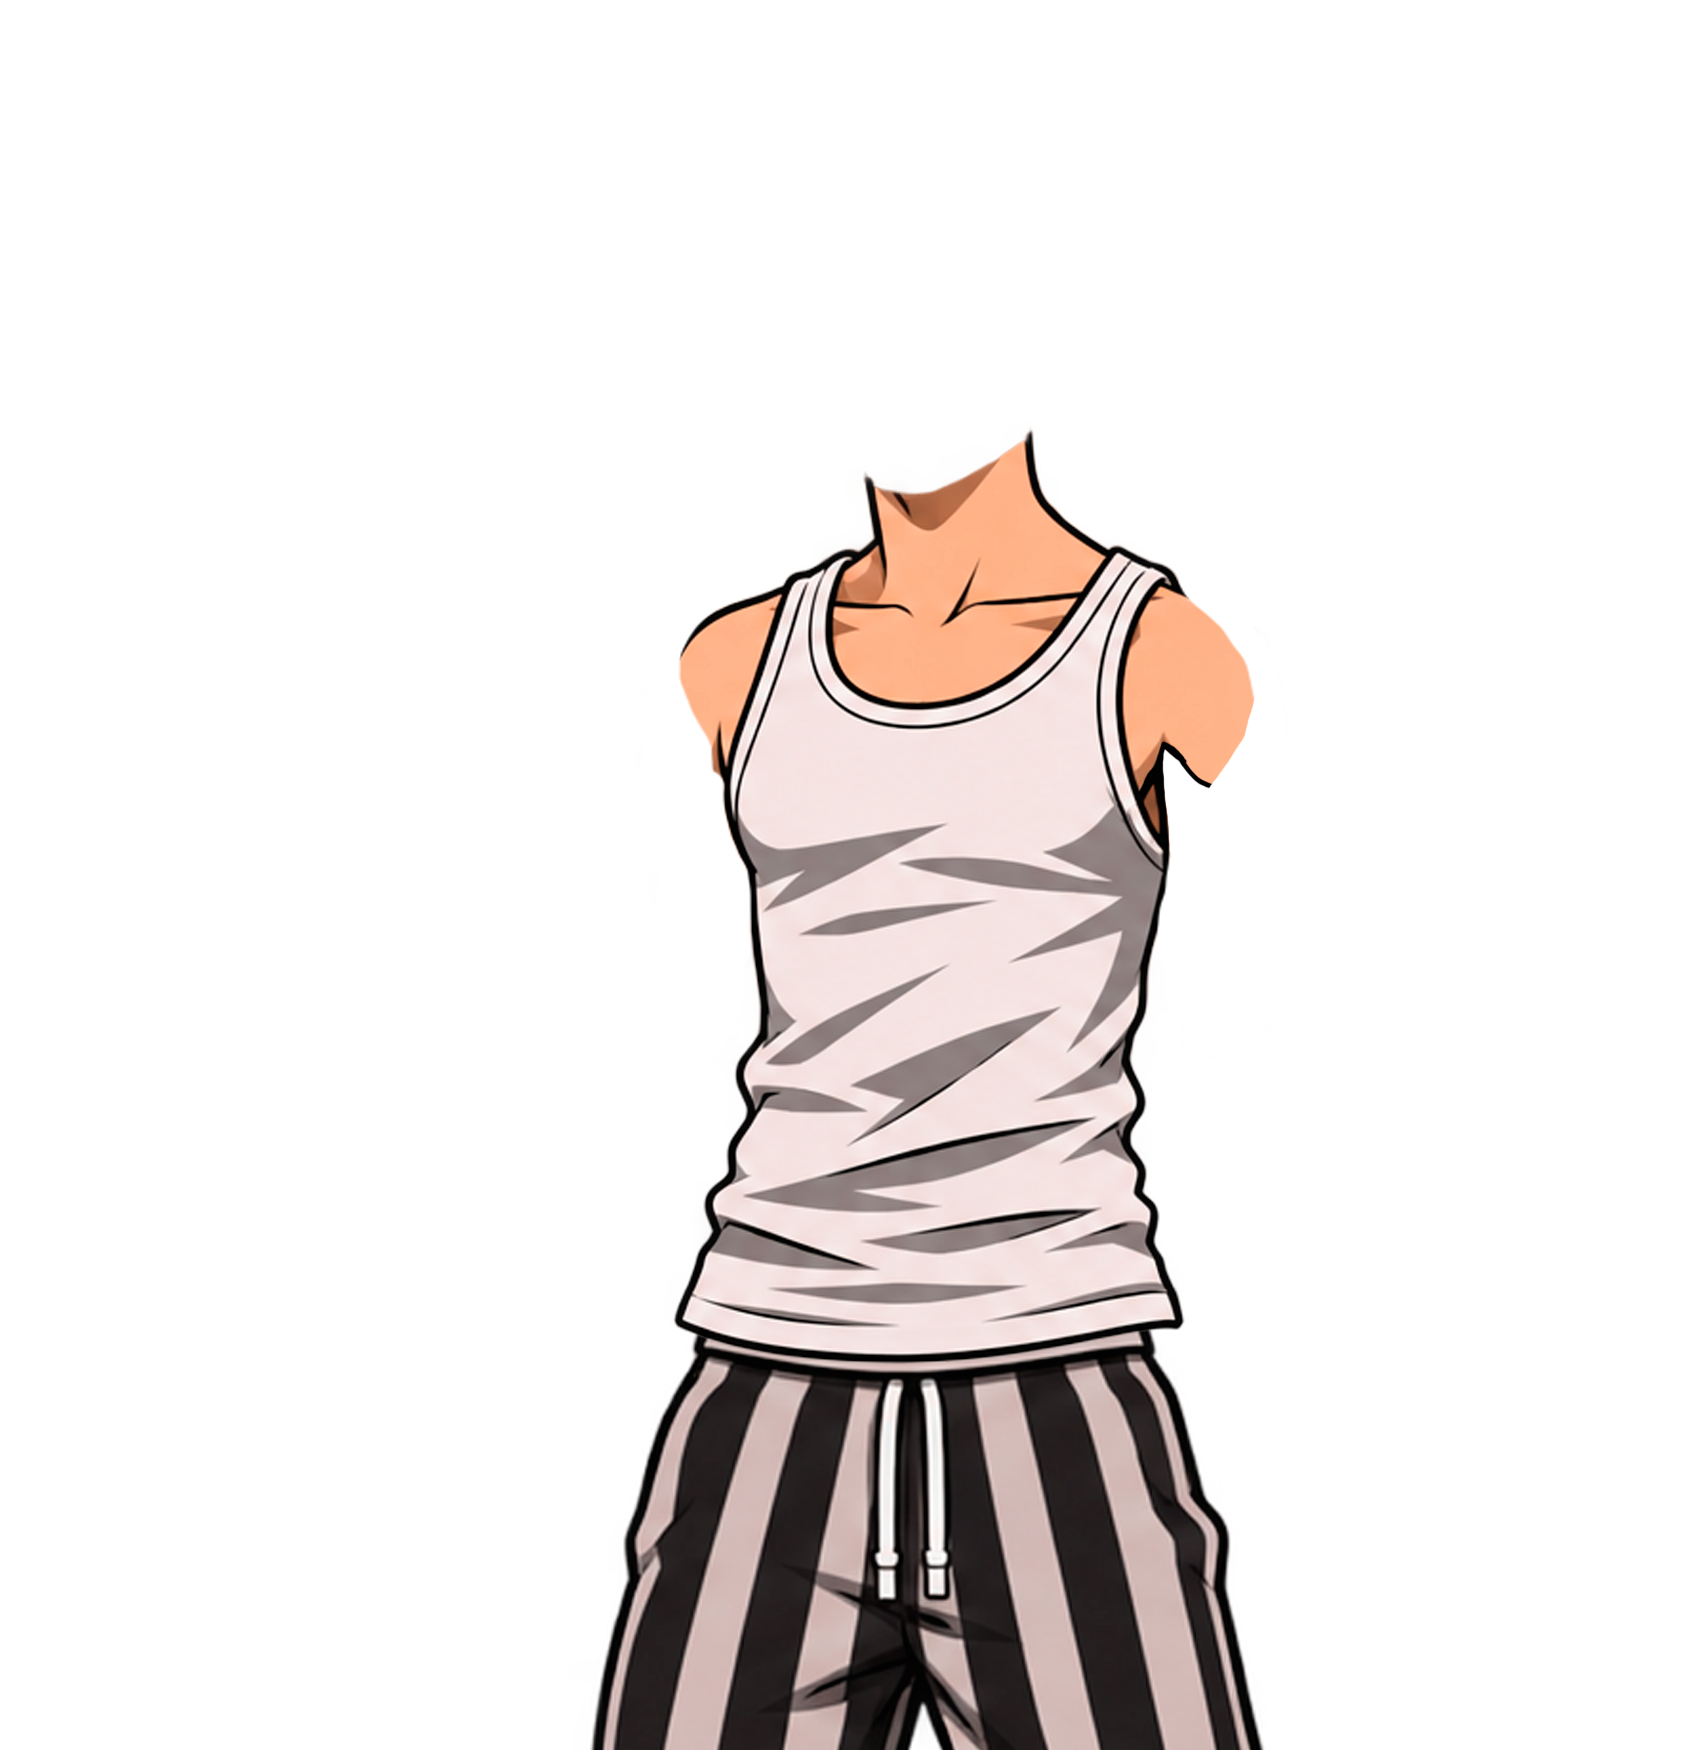
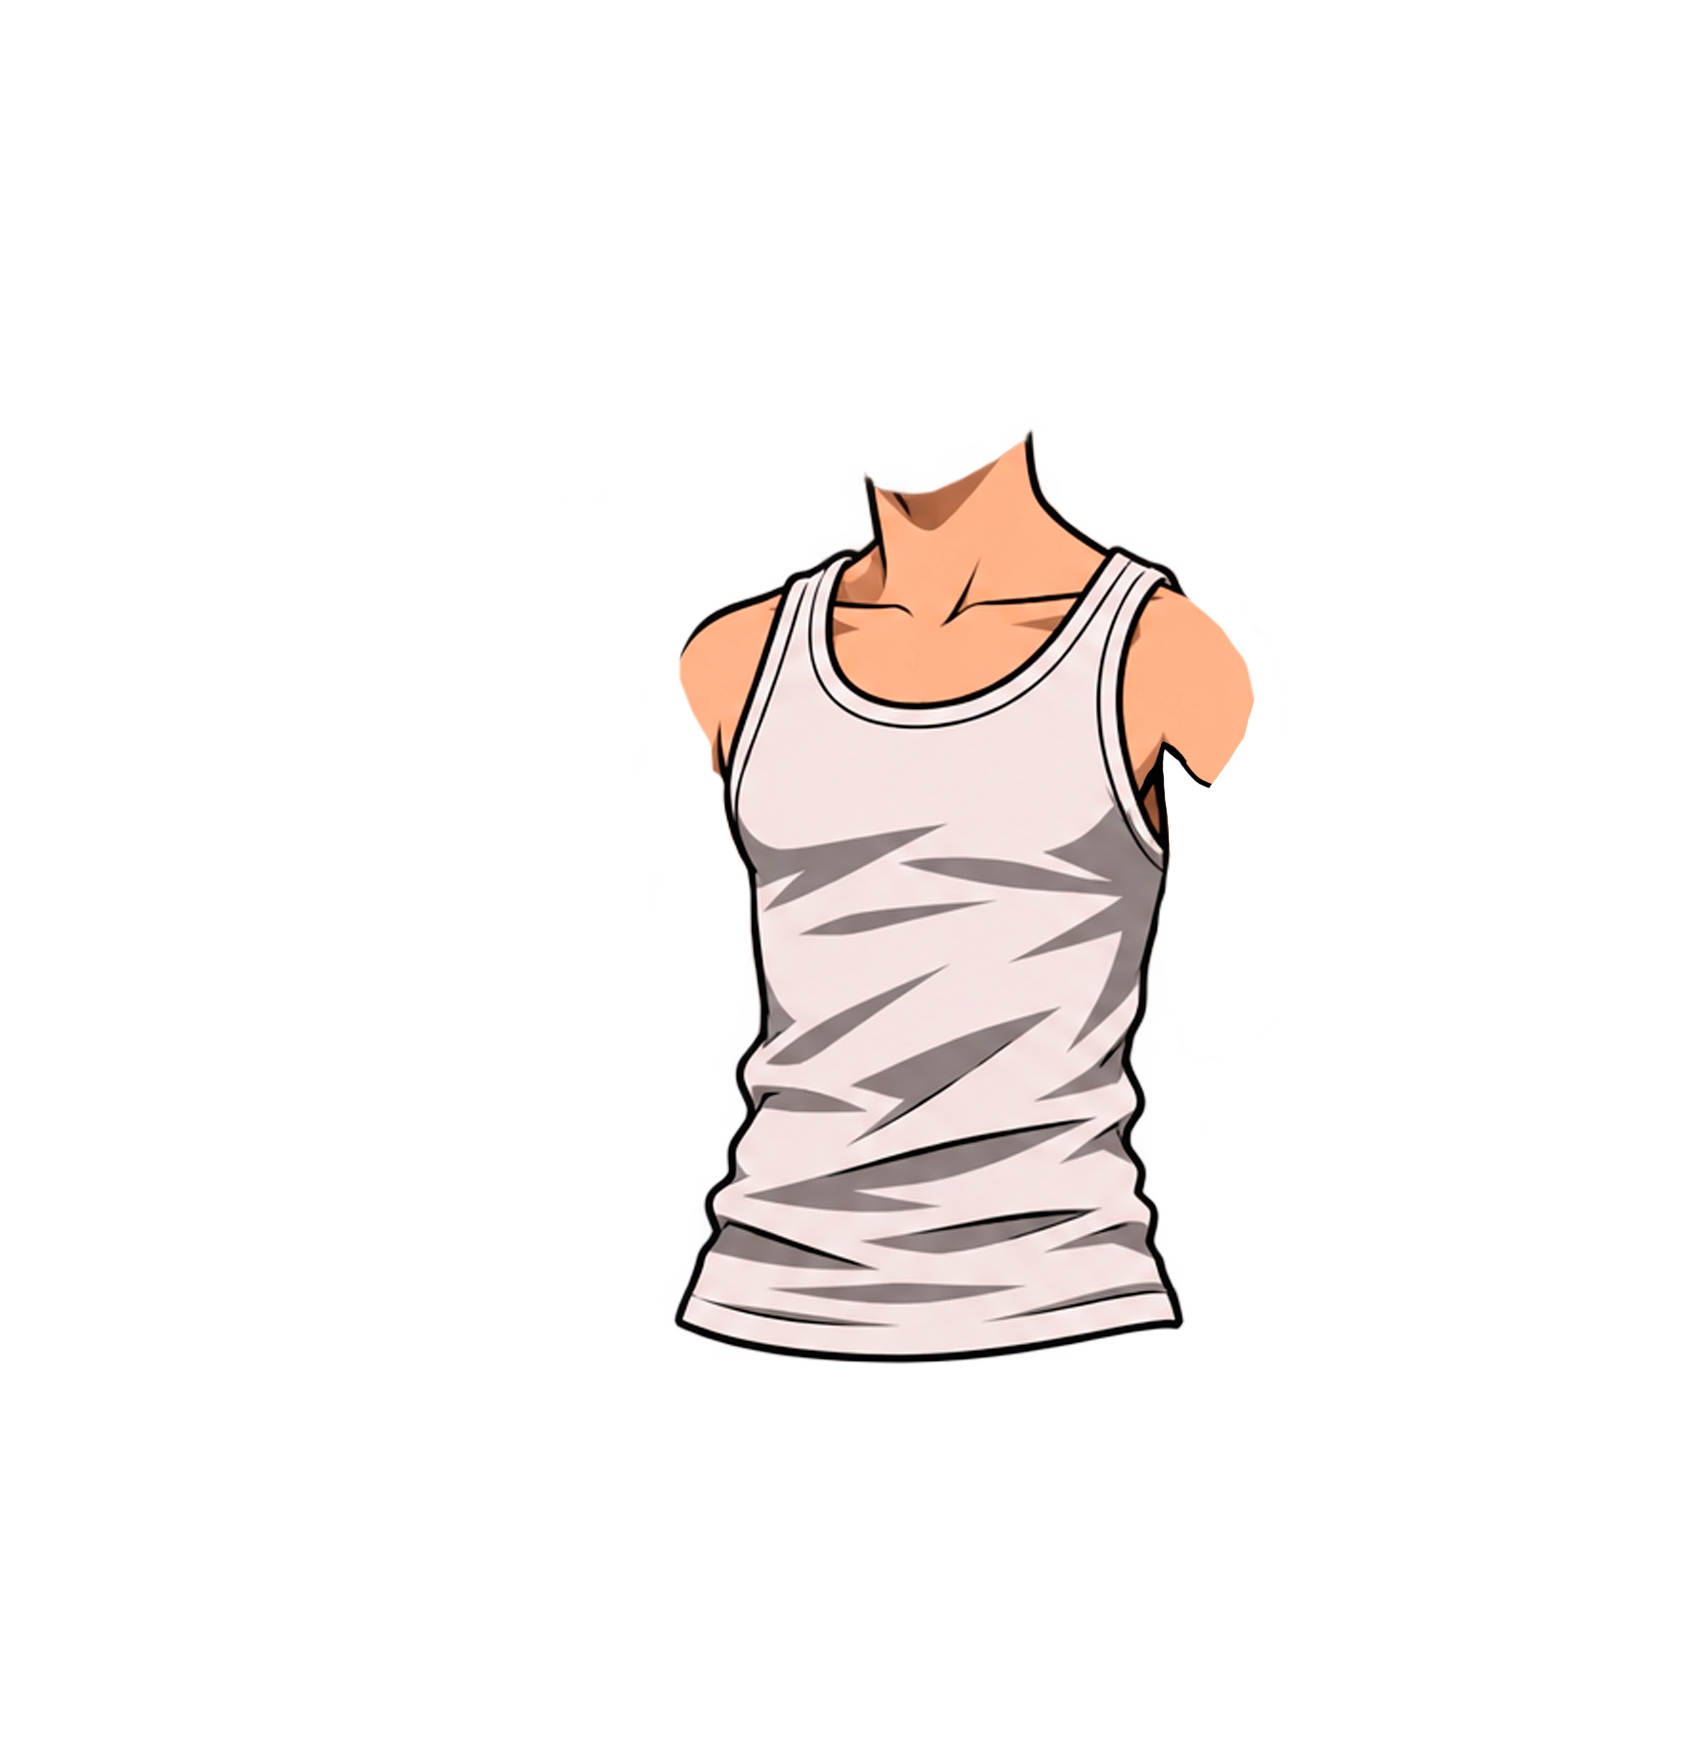
Гопник: в удар наклоняется только тело от пояса, ноги стоят
Claude-Session: https://claude.ai/code/session_01XtpZhZabEYUcJEQKQgYpHe

Changed region(s): [[0.3429, 0.7406, 0.7482, 1.0]]

diff --git a/src/app/screens.css b/src/app/screens.css
@@ -6080,19 +6080,20 @@ html.eco .hs-page::after, html.eco .hs-page::before { animation: none; }
   10%, 25% { transform: rotate(0deg); animation-timing-function: ease-in-out; }
   60% { transform: rotate(-4deg); animation-timing-function: ease-in-out; }
   100% { transform: rotate(0deg); } }
-/* the body goes into each punch of the right arm: it leans over from the hips with the blow and comes back */
-.rig-gopnik-pup, svg.rig-gopnik:not(.br-pup svg) { animation: gp-lean 3.6s infinite; transform-origin: 50% 100%; }
+/* the body goes into each punch of the right arm: everything above the waist leans with the blow and comes back smoothly,
+   the legs stay put */
+.rig-gopnik .br-up { animation: gp-lean 3.6s infinite; }
 @keyframes gp-lean {
   0%, 14% { transform: rotate(0deg) translateX(0px); animation-timing-function: cubic-bezier(0.75, 0, 1, 0.9); }
-  3.5%, 17.5% { transform: rotate(-4deg) translateX(-8px); animation-timing-function: cubic-bezier(0.1, 0.6, 0.3, 1); }
-  11%, 26% { transform: rotate(0deg) translateX(0px); }
+  3.5%, 17.5% { transform: rotate(-5deg) translateX(-6px); animation-timing-function: cubic-bezier(0.25, 0.5, 0.4, 1); }
+  12%, 27% { transform: rotate(0deg) translateX(0px); }
   100% { transform: rotate(0deg) translateX(0px); } }
 /* a hit does not stop his boxing: the head jerks back */
 .arena-photo.hit .rig-gopnik .br-arm-r { animation-duration: 4.8s; }
 .arena-photo.hit .rig-gopnik :is(.br-low-r, .br-hand-r) { animation-duration: 2.4s; }
 .arena-photo.hit .rig-gopnik :is(.br-arm-l, .br-low-l, .br-hand-l) { animation-duration: 3.6s; }
 .arena-photo.ouch .rig-gopnik .br-head { animation: mg-head-hit 0.42s ease-out; }
-@media (prefers-reduced-motion: reduce) { .rig-gopnik :is(.br-arm, .br-low, .br-hand), .rig-gopnik-pup { animation: none; } }
+@media (prefers-reduced-motion: reduce) { .rig-gopnik :is(.br-arm, .br-low, .br-hand, .br-up) { animation: none; } }
 /* the raid fight: he stands in the room, down to the hips */
 .rd-fight .arena.full .arena-photo.rd-defender-fight { left: -4%; right: -4%; top: 64px; bottom: 120px;
   -webkit-mask-image: linear-gradient(to bottom, #000 84%, transparent); mask-image: linear-gradient(to bottom, #000 84%, transparent); }

diff --git a/src/client/art/boss-rig.tsx b/src/client/art/boss-rig.tsx
@@ -341,6 +341,9 @@ export function BossRig({ id: baseId, hpShare = 1, bust = false }: { id: string;
     <svg key={id} ref={svgRef} className={`boss-rig rig-${baseId} ${id.endsWith("-beaten") ? "beaten" : ""} ${dazed ? "dazed" : ""}`} viewBox={bust ? bustBox(rig) : `0 0 ${rig.w} ${rig.h}`} width="100%" height="100%" preserveAspectRatio={bust ? "xMidYMin slice" : "xMidYMax meet"} aria-hidden="true">
       {frameCss && <style>{frameCss}</style>}
       <g className="br-breath" style={{ transformOrigin: `${rig.w / 2}px ${rig.h}px`, transformBox: "view-box" }}>
+        {/* legs of their own (Гопник): they stay put, everything above the waist leans in br-up (screens.css «Гопник») */}
+        {img("legs", undefined, "back")}
+        <g className="br-up" style={P.legs ? { transformOrigin: `${P.legs.x + P.legs.w / 2}px ${P.legs.y + P.legs.h * 0.2}px`, transformBox: "view-box" } : undefined}>
         {P.tail && <g className="br-tail" {...joint("tail")} style={origin("tail")}>{img("tail", undefined, "back")}</g>}
         {behind && arm(behind, split ? "upper" : undefined, "back")}
         {img("body", undefined, "back")}
@@ -380,6 +383,7 @@ export function BossRig({ id: baseId, hpShare = 1, bust = false }: { id: string;
         {behind !== "R" && arm("R")}
         {behind !== "L" && arm("L")}
         {split && behind && arm(behind, "lower")}
+        </g>
       </g>
     </svg>
     );

diff --git a/src/client/art/boss-rig-data.ts b/src/client/art/boss-rig-data.ts
@@ -2614,12 +2614,19 @@ export const BOSS_RIGS: Record<string, { w: number; h: number; parts: Record<str
     "w": 850,
     "h": 875,
     "parts": {
-      "body": {
+      "legs": {
         "x": 293.5,
-        "y": 213.0,
+        "y": 650.0,
         "w": 340,
-        "h": 662,
-        "v": "682b27c7"
+        "h": 225,
+        "v": "b18eeb72"
+      },
+      "body": {
+        "x": 335.5,
+        "y": 213.0,
+        "w": 294,
+        "h": 470,
+        "v": "ae7852ae"
       },
       "armL": {
         "x": 277.0,

diff --git a/src/client/asset-manifest.ts b/src/client/asset-manifest.ts
@@ -2866,6 +2866,7 @@ export const ASSET_FILES: string[] = [
  "/bosses/gopnik/rig/handL.webp",
  "/bosses/gopnik/rig/handR.webp",
  "/bosses/gopnik/rig/head.webp",
+ "/bosses/gopnik/rig/legs.webp",
  "/bosses/gopnik/rig/lowL.webp",
  "/bosses/gopnik/rig/lowR.webp",
  "/bosses/kedr/card.webp",

diff --git a/tools/boss/assemble-gopnik.py b/tools/boss/assemble-gopnik.py
@@ -3,7 +3,7 @@
 2000×3000 sheet, in place: tools/boss/source/gopnik/raw/{pants,torso,head,upperL,foreL,fistL,upperR,foreR,fistR}.png.
 L is the arm on the left of the picture (his right arm), R — on the right (his left arm, the forearm across the belly).
 → rig sources for build-boss.py, cropped to the hips (the fight shows him down to the hips):
-  body = pants + torso, head, armL/lowL/handL, armR/lowR/handR (shoulder → forearm at the elbow → fist at the wrist).
+  legs = pants (they stay put), body = torso (leans into the punches at the waist), head, armL/lowL/handL, armR/lowR/handR (shoulder → forearm at the elbow → fist at the wrist).
 The joints (build-boss.py PIVOT_BY_BOSS) are the middles of where the pieces overlap.
 """
 import os
@@ -22,7 +22,7 @@ def lay(*names):
     return im.crop(CROP)
 
 
-for out, src in {"body": ("pants", "torso"), "head": ("head",),
+for out, src in {"legs": ("pants",), "body": ("torso",), "head": ("head",),
                  "armL": ("upperL",), "lowL": ("foreL",), "handL": ("fistL",),
                  "armR": ("upperR",), "lowR": ("foreR",), "handR": ("fistR",)}.items():
     lay(*src).save(f"{D}/{out}.png")
